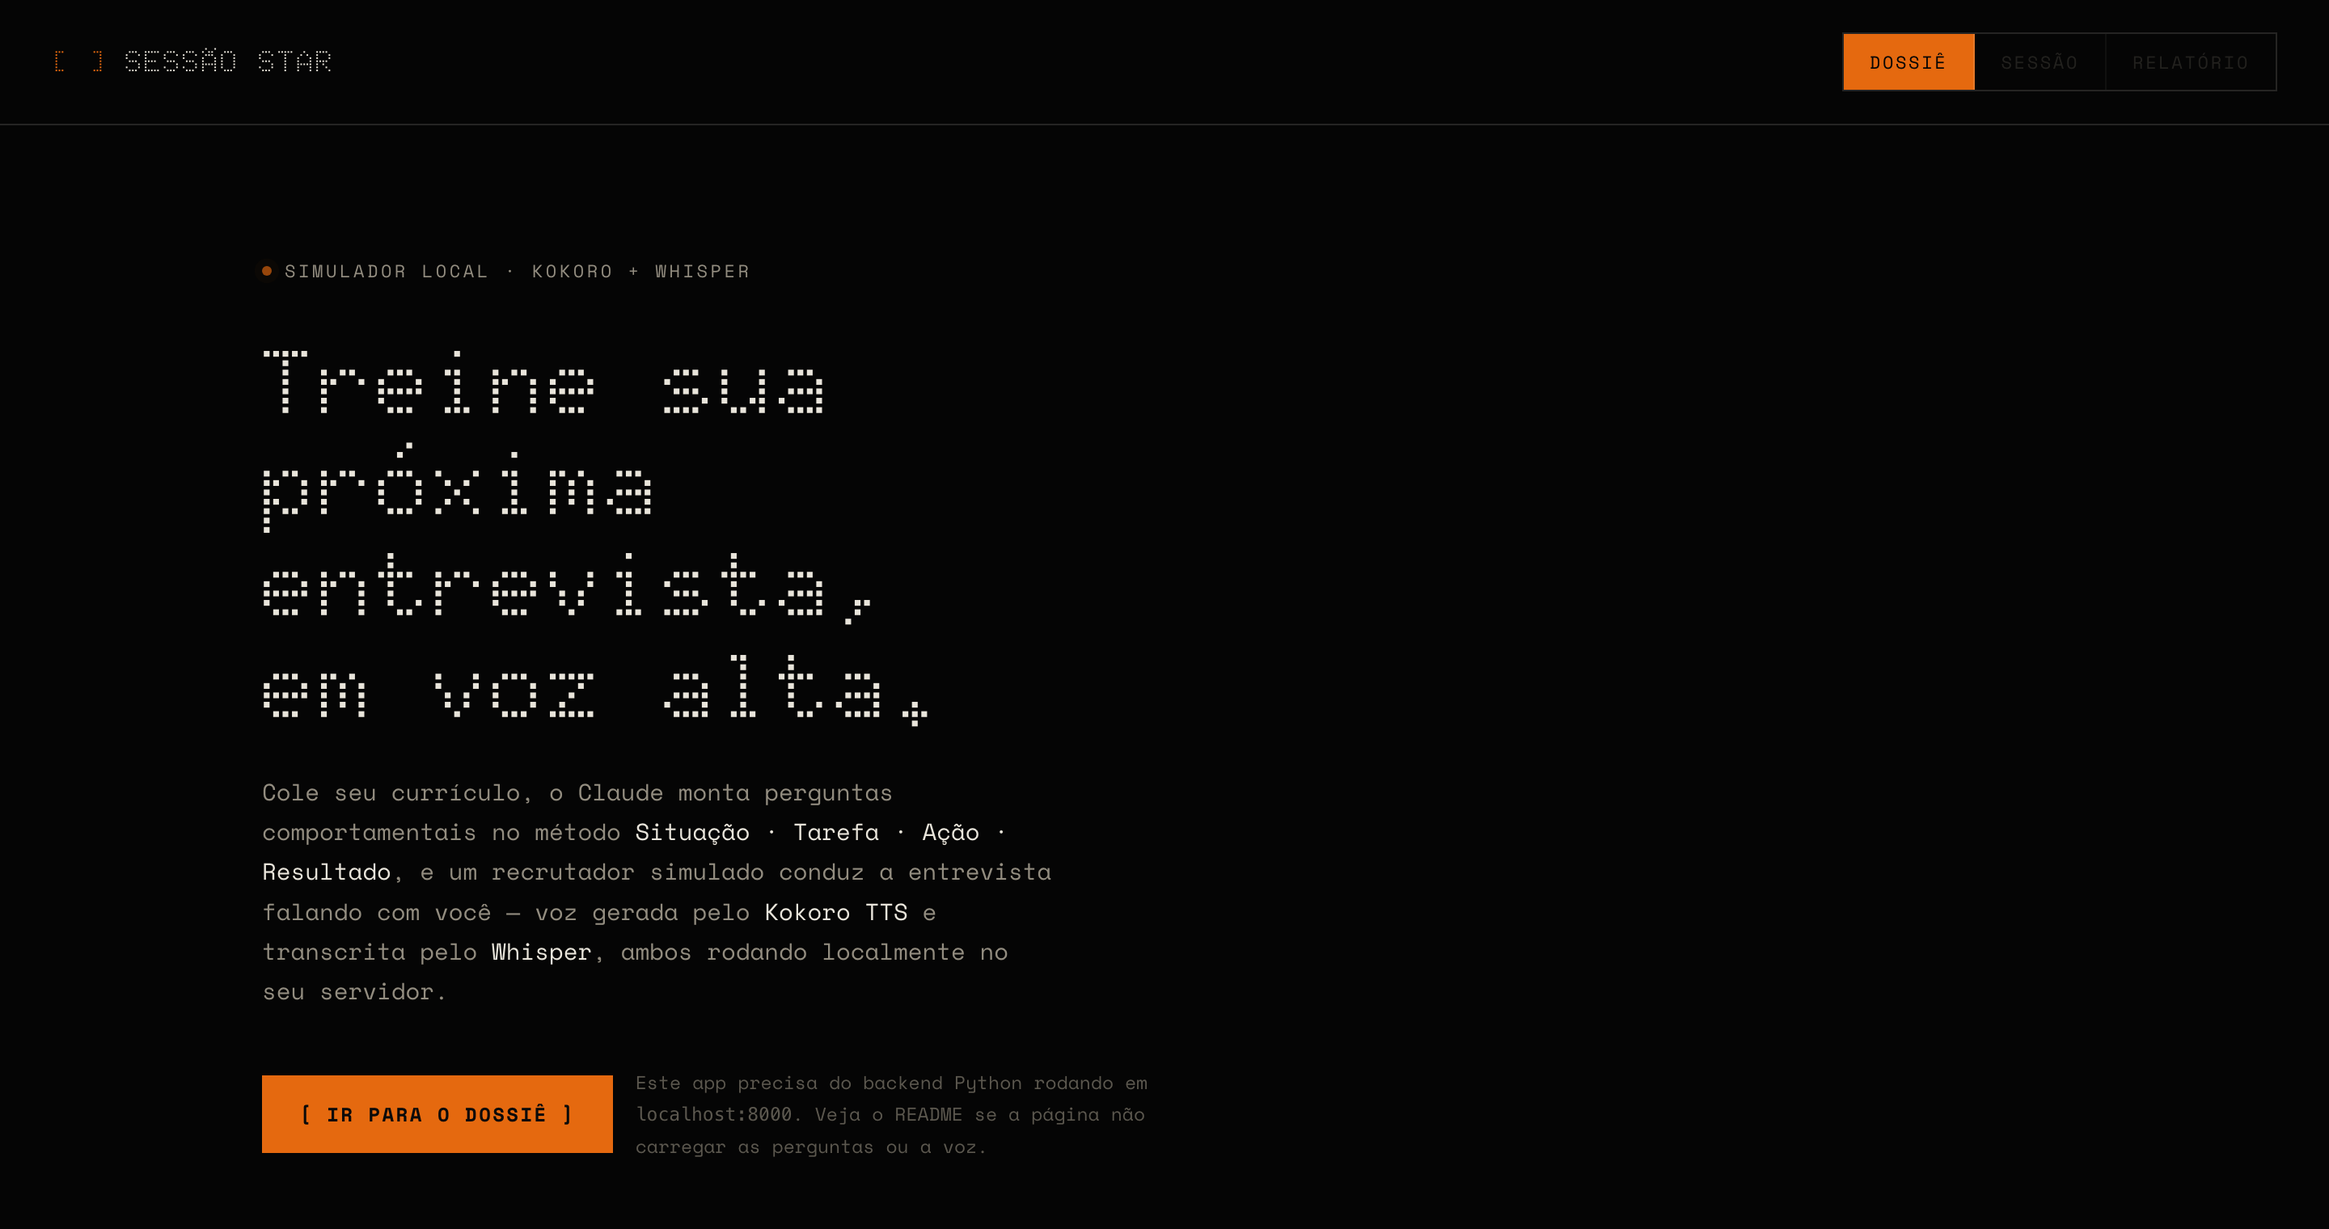
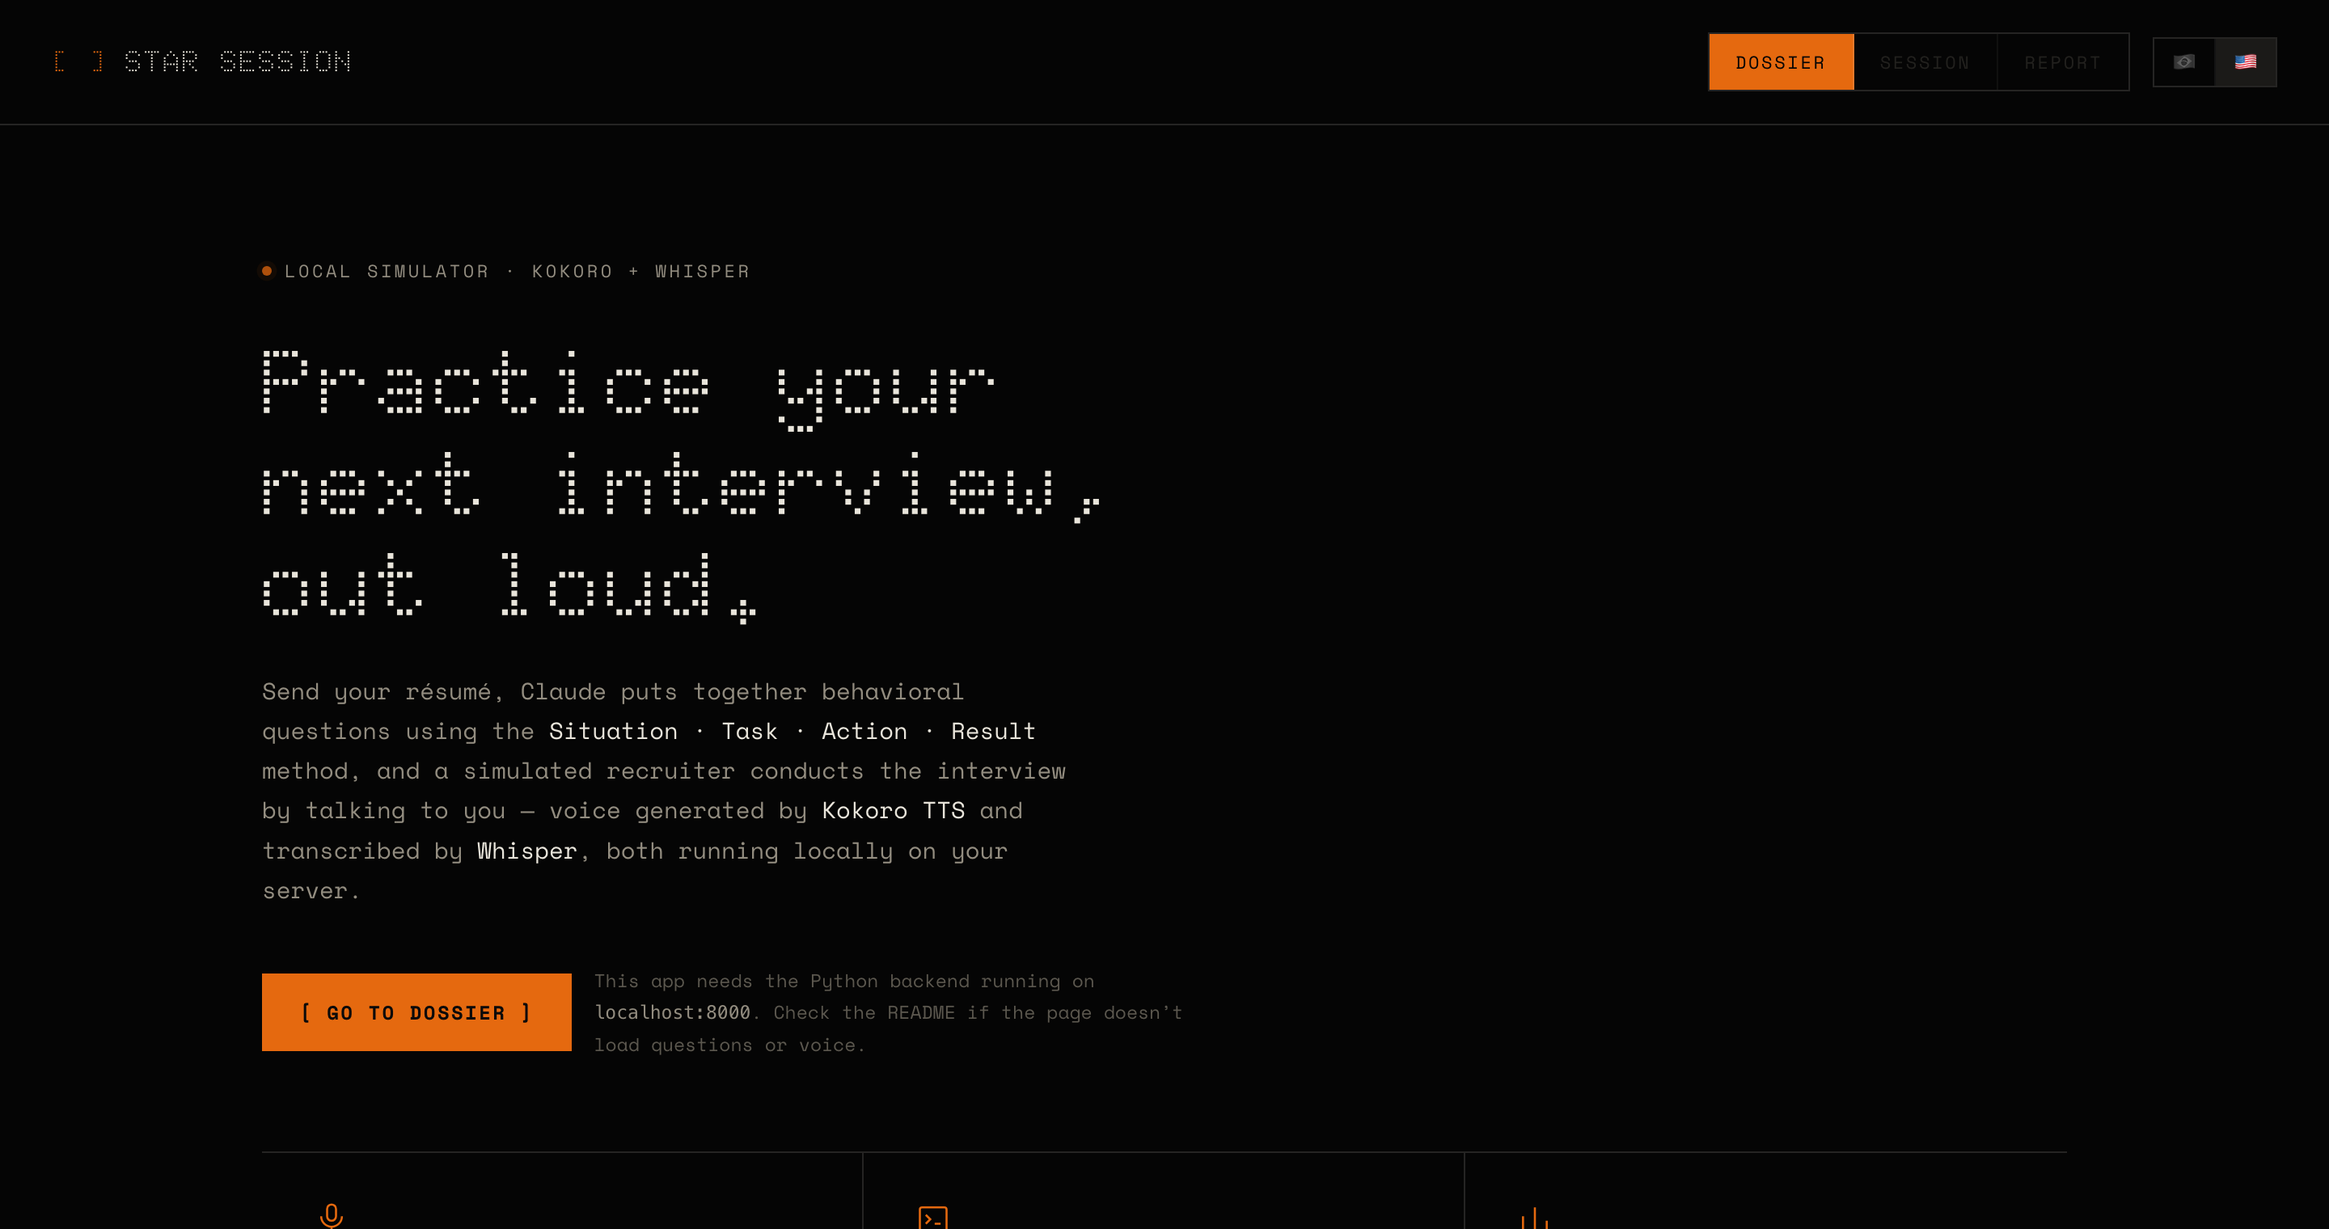
docs: translate README to English and refresh the hero screenshot
README is now 100% English, matching the app's own English UI. Also adds
?lang=en/pt URL query support in the frontend (used to capture this
screenshot deterministically, and generally useful for deep-linking a
specific language).

diff --git a/frontend/index.html b/frontend/index.html
@@ -601,7 +601,11 @@
 
   var LANG_KEY = "sessao-star-lang";
   var currentLang = (function(){
-    try { return localStorage.getItem(LANG_KEY) || "pt"; } catch (e) { return "pt"; }
+    try {
+      var fromUrl = new URLSearchParams(location.search).get("lang");
+      if (fromUrl === "pt" || fromUrl === "en") return fromUrl;
+      return localStorage.getItem(LANG_KEY) || "pt";
+    } catch (e) { return "pt"; }
   })();
 
   function t(key, vars){

diff --git a/README.md b/README.md
@@ -1,62 +1,62 @@
-# Sessão STAR
+# STAR Session
 
-![Sessão STAR — tela inicial](docs/screenshot.png)
+![STAR Session — home screen](docs/screenshot.png)
 
-## Por que isso existe
+## Why this exists
 
-Todo mundo que já passou por um processo seletivo ouviu o conselho: "treine suas respostas pelo método STAR". O problema nunca foi saber o que é STAR — Situação, Tarefa, Ação, Resultado. O problema é treinar isso *em voz alta*, contra uma pergunta que realmente tem a ver com o seu currículo e com a vaga específica que você está disputando, sem precisar convencer um amigo a bancar o recrutador de novo, ou pagar por um coach só pra ouvir você falar por vinte minutos.
+Everyone who has ever gone through a hiring process has heard the advice: "practice your answers using the STAR method." The problem was never understanding what STAR means — Situation, Task, Action, Result. The problem is practicing it *out loud*, against a question that actually relates to your résumé and the specific job you're applying for, without having to talk a friend into playing recruiter again, or paying a coach just to listen to you talk for twenty minutes.
 
-As alternativas de sempre também esbarram em outro problema: bancos de perguntas genéricas não sabem que você liderou um time de quatro pessoas na Norteluz Logística, e ferramentas de voz por IA de verdade normalmente significam mandar seu currículo e sua voz pra alguma API paga na nuvem, sessão após sessão.
+The usual alternatives run into another problem too: generic question banks don't know you led a team of four people at Norteluz Logistics, and real AI voice tools usually mean sending your résumé and your voice to some paid cloud API, session after session.
 
-A Sessão STAR nasceu pra resolver as duas coisas ao mesmo tempo: perguntas que cruzam o *seu* currículo com a JD *dessa* vaga, e uma entrevista falada de verdade — Kokoro TTS fazendo a voz do recrutador, Whisper transcrevendo sua resposta — rodando inteiramente no seu computador, sem custo por minuto e sem sua voz saindo da máquina.
+STAR Session was built to solve both at once: questions that cross-reference *your* résumé with *this* job's JD, and a real spoken interview — Kokoro TTS voicing the recruiter, Whisper transcribing your answer — running entirely on your own computer, with no per-minute cost and no voice data leaving the machine.
 
-## O que ela faz
+## What it does
 
-0. Você escolhe o idioma pela bandeira no topo (🇧🇷 português ou 🇺🇸 inglês) — currículo, vaga, perguntas, voz e relatório seguem essa escolha do início ao fim.
-1. Você envia o currículo (PDF, DOCX, TXT ou colado direto) e cola a descrição da vaga (JD).
-2. O Claude cruza as duas fontes e monta 6 perguntas comportamentais no método STAR — inclusive perguntas que sondam de propósito um requisito da vaga que seu currículo ainda não comprova.
-3. Antes de valer alguma coisa, uma rodada de treino com um tutor explica o método rapidinho e dá feedback sobre uma resposta de aquecimento, sem contar pra nota final.
-4. A entrevista de verdade começa: um recrutador simulado fala cada pergunta em voz alta, você responde pelo microfone, e a transcrição aparece na tela — editável, caso o Whisper entenda alguma palavra errada.
-5. No fim, um relatório aponta, pergunta por pergunta, onde sua resposta cobriu Situação, Tarefa, Ação e Resultado — e onde faltou.
-6. A sessão fica salva no seu histórico local. Depois de acumular respostas suficientes, um modelo treinado nos seus próprios padrões de resposta passa a mirar as próximas perguntas exatamente nos temas onde você costuma deixar a peteca cair.
+0. You pick the language from the flag at the top (🇧🇷 Portuguese or 🇺🇸 English) — résumé, job, questions, voice, and report all follow that choice end to end.
+1. You upload your résumé (PDF, DOCX, TXT, or pasted directly) and paste the job description (JD).
+2. Claude cross-references both and puts together 6 behavioral questions using the STAR method — including questions that deliberately probe a job requirement your résumé doesn't yet prove.
+3. Before anything counts, a practice round with a tutor briefly explains the method and gives feedback on a warm-up answer, none of which affects the final score.
+4. The real interview starts: a simulated recruiter speaks each question out loud, you answer through the microphone, and the transcript appears on screen — editable, in case Whisper mishears a word.
+5. At the end, a report points out, question by question, where your answer covered Situation, Task, Action, and Result — and where it fell short.
+6. The session is saved to your local history. Once enough answers pile up, a model trained on your own response patterns starts aiming future questions exactly at the themes where you tend to drop the ball.
 
-## Como funciona por baixo
+## How it works under the hood
 
 ```
-navegador  <-- HTML/CSS/JS puro, sem build step
+browser  <-- plain HTML/CSS/JS, no build step
     |
     | fetch()
     v
 FastAPI (backend/main.py)
     |-- /api/extract-resume  -> pypdf / python-docx
-    |-- /api/questions       -> Claude API (fallback: heurística local)
-    |-- /api/tts             -> Kokoro TTS   (lock: 1 chamada por vez)
-    |-- /api/stt             -> Whisper      (lock: 1 chamada por vez)
-    |-- /api/tutor-feedback  -> Claude API (fallback: heurística local)
-    |-- /api/report          -> Claude API (fallback: heurística local)
+    |-- /api/questions       -> Claude API (fallback: local heuristic)
+    |-- /api/tts             -> Kokoro TTS   (lock: 1 call at a time)
+    |-- /api/stt             -> Whisper      (lock: 1 call at a time)
+    |-- /api/tutor-feedback  -> Claude API (fallback: local heuristic)
+    |-- /api/report          -> Claude API (fallback: local heuristic)
     |-- /api/session/save    -> SQLite (backend/db.py)
-    |-- /api/insights        -> modelo preditivo (backend/ml.py)
+    |-- /api/insights        -> predictive model (backend/ml.py)
 ```
 
-Tudo passa pelo backend, inclusive a geração de voz e a transcrição — não porque o navegador não saiba gravar áudio, mas porque o Kokoro e o Whisper são modelos Python de verdade, com pesos que passam de 100 MB, e não existe versão deles rodando puramente em JavaScript no seu navegador. A chave da Claude API segue a mesma lógica de sempre: nunca sai do servidor.
+Everything goes through the backend, including voice generation and transcription — not because the browser can't record audio, but because Kokoro and Whisper are real Python models with weights well over 100 MB, and there's no version of them running purely in browser JavaScript. The Claude API key follows the same logic as always: it never leaves the server.
 
-**Histórico e modelo preditivo.** Cada sessão finalizada — currículo, JD, perguntas, respostas, relatório — é salva em SQLite (`backend/db.py`). Uma lista de palavras-chave decide, resposta por resposta, quais dos quatro elementos do STAR parecem cobertos: é o "professor" que rotula os dados. Com menos de 20 respostas reais no histórico, é só essa heurística que fala. A partir da vigésima, `ml.py` treina um classificador de texto (TF-IDF + regressão logística, um por elemento do STAR) sobre tudo que já foi respondido, e passa a usar esse modelo em vez da lista fixa — capturando um pouco do jeito como *você* escreve, não só palavras isoladas. Ele reaprende a cada sessão salva, e o tema onde sua cobertura histórica é mais baixa entra direto no prompt da próxima geração de perguntas.
+**History and predictive model.** Every finished session — résumé, JD, questions, answers, report — is saved to SQLite (`backend/db.py`). A keyword list decides, answer by answer, which of the four STAR elements seem covered: it's the "teacher" that labels the data. With fewer than 20 real answers in the history, that heuristic is the only voice that speaks. From the twentieth answer on, `ml.py` trains a text classifier (TF-IDF + logistic regression, one per STAR element) over everything answered so far, and starts using that model instead of the fixed keyword list — picking up a bit of how *you* actually write, not just isolated words. It retrains on every saved session, and the theme where your historical coverage is lowest goes straight into the prompt for the next round of question generation.
 
-**Limitação honesta:** é um classificador simples, treinado só com o que você mesmo pratica nessa máquina — ele não avalia se sua resposta é *boa*, só se ela parece cobrir estruturalmente os quatro elementos do método, e precisa de dezenas de respostas antes de dizer algo que a heurística de palavras-chave já não diria. E como o Kokoro e o Whisper não são seguros para chamadas concorrentes, o backend serializa as duas com um lock — ótimo para um candidato treinando sozinho, um gargalo se um dia isso precisasse atender várias pessoas ao mesmo tempo.
+**Honest limitation:** it's a simple classifier, trained only on what you practice on this machine — it doesn't judge whether your answer is *good*, only whether it structurally seems to cover the four elements of the method, and it needs dozens of answers before it says anything the keyword heuristic wouldn't already say. And since Kokoro and Whisper aren't safe for concurrent calls, the backend serializes both behind a lock — fine for one candidate practicing alone, a bottleneck if this ever had to serve several people at once.
 
-## Requisitos do sistema
+## System requirements
 
 - Python 3.10+
-- [espeak-ng](https://github.com/espeak-ng/espeak-ng) — usado pelo Kokoro para fonemizar o português:
+- [espeak-ng](https://github.com/espeak-ng/espeak-ng) — used by Kokoro to phonemize both Portuguese and English:
   ```bash
   brew install espeak-ng
   ```
-- ffmpeg — usado para decodificar o áudio gravado no navegador antes de mandar ao Whisper:
+- ffmpeg — used to decode the audio recorded in the browser before sending it to Whisper:
   ```bash
   brew install ffmpeg
   ```
 
-## Instalação
+## Installation
 
 ```bash
 cd backend
@@ -66,11 +66,11 @@ pip install -r requirements.txt
 cp .env.example .env
 ```
 
-Edite `.env` e adicione sua `ANTHROPIC_API_KEY` se quiser perguntas STAR personalizadas e
-relatório final gerados pelo Claude. Sem a chave, o app funciona normalmente, mas usa perguntas
-e relatório heurísticos (mais genéricos).
+Edit `.env` and add your `ANTHROPIC_API_KEY` if you want personalized STAR questions and a
+final report generated by Claude. Without the key, the app still works, but falls back to
+heuristic (more generic) questions and reports.
 
-## Rodando
+## Running it
 
 ```bash
 cd backend
@@ -78,54 +78,54 @@ source .venv/bin/activate
 uvicorn main:app --reload
 ```
 
-Abra http://localhost:8000 no navegador (Chrome ou Edge recomendados, para permissão de
-microfone mais confiável).
+Open http://localhost:8000 in your browser (Chrome or Edge recommended, for more reliable
+microphone permission).
 
-## Primeira execução
+## First run
 
-- O **Kokoro** baixa os pesos do modelo (~centenas de MB) na primeira chamada a `/api/tts`.
-- O **Whisper** (`faster-whisper`, modelo `small` por padrão) baixa os pesos na primeira chamada
-  a `/api/stt`.
-- Ambos ficam em cache local depois disso; as próximas sessões carregam na hora.
+- **Kokoro** downloads its model weights (a few hundred MB) on the first call to `/api/tts`.
+- **Whisper** (`faster-whisper`, `small` model by default) downloads its weights on the first
+  call to `/api/stt`.
+- Both are cached locally after that; later sessions load instantly.
 
-## Variáveis de ambiente (`backend/.env`)
+## Environment variables (`backend/.env`)
 
-| Variável | Padrão | Descrição |
+| Variable | Default | Description |
 |---|---|---|
-| `ANTHROPIC_API_KEY` | — | Chave da API da Anthropic. Sem ela, perguntas e relatório usam heurística local. |
-| `ANTHROPIC_MODEL` | `claude-haiku-4-5` | Modelo Claude usado para gerar perguntas e relatório. |
-| `WHISPER_MODEL` | `small` | Tamanho do modelo Whisper (`tiny`, `base`, `small`, `medium`, `large-v3`). Modelos maiores são mais precisos e mais lentos. |
-| `KOKORO_VOICE` | `pm_alex` | Voz do Kokoro para o recrutador em português. Vozes pt-BR: `pf_dora` (feminina), `pm_alex`, `pm_santa` (masculinas). |
-| `KOKORO_VOICE_EN` | `af_heart` | Voz do Kokoro para o recrutador em inglês (quando 🇺🇸 está selecionado). Vozes em inglês: `af_heart`, `af_bella` (femininas), `am_adam`, `am_michael` (masculinas). |
+| `ANTHROPIC_API_KEY` | — | Anthropic API key. Without it, questions and the report fall back to a local heuristic. |
+| `ANTHROPIC_MODEL` | `claude-haiku-4-5` | Claude model used to generate questions and the report. |
+| `WHISPER_MODEL` | `small` | Whisper model size (`tiny`, `base`, `small`, `medium`, `large-v3`). Larger models are more accurate and slower. |
+| `KOKORO_VOICE` | `pm_alex` | Kokoro voice for the recruiter in Portuguese. pt-BR voices: `pf_dora` (female), `pm_alex`, `pm_santa` (male). |
+| `KOKORO_VOICE_EN` | `af_heart` | Kokoro voice for the recruiter in English (when 🇺🇸 is selected). English voices: `af_heart`, `af_bella` (female), `am_adam`, `am_michael` (male). |
 
-## Estrutura do projeto
+## Project structure
 
 ```
 backend/
-  main.py            FastAPI: todos os endpoints e o serviço do frontend estático.
-  db.py              Persistência em SQLite (backend/data/sessao_star.db, fora do git).
-  ml.py              Modelo preditivo (scikit-learn) de cobertura STAR.
+  main.py            FastAPI: every endpoint, plus serving the static frontend.
+  db.py              SQLite persistence (backend/data/sessao_star.db, outside git).
+  ml.py              Predictive model (scikit-learn) for STAR coverage.
   requirements.txt
   .env.example
 frontend/
-  index.html         Interface única (HTML/CSS/JS puro, sem build step).
+  index.html         Single-page UI (plain HTML/CSS/JS, no build step).
 docs/
-  screenshot.png     Captura usada neste README.
+  screenshot.png     Screenshot used in this README.
 ```
 
-O frontend grava a resposta com `MediaRecorder`, envia o áudio para `/api/stt` e recebe o texto
-transcrito (não é streaming ao vivo — grava, para, transcreve). A pergunta é sintetizada uma vez
-por `/api/tts` e o áudio fica em cache no navegador durante a sessão, então "ouvir de novo" não
-gera uma nova chamada ao Kokoro.
+The frontend records the answer with `MediaRecorder`, sends the audio to `/api/stt`, and gets
+back the transcribed text (not live streaming — it records, stops, then transcribes). The
+question is synthesized once through `/api/tts` and the audio is cached in the browser for the
+session, so "play again" doesn't trigger a new call to Kokoro.
 
-**Privacidade:** `backend/data/` (banco SQLite + modelo treinado) e `backend/.env` (sua chave de
-API) ficam fora do git — o primeiro contém trechos de currículo e as respostas faladas nas suas
-entrevistas de treino.
+**Privacy:** `backend/data/` (SQLite database + trained model) and `backend/.env` (your API key)
+stay out of git — the former holds résumé excerpts and the answers you speak during your practice
+interviews.
 
-## Problemas comuns
+## Common issues
 
-- **Erro ao gerar voz (Kokoro)**: confirme que `espeak-ng` está instalado (`espeak-ng --version`).
-- **Erro ao transcrever (Whisper)**: confirme que `ffmpeg` está instalado (`ffmpeg -version`).
-- **Microfone não pede permissão**: acesse via `http://localhost:8000` (não `127.0.0.1` misturado
-  com outro host) — navegadores exigem contexto seguro (localhost conta como seguro) para o
-  `getUserMedia`.
+- **Voice generation error (Kokoro)**: make sure `espeak-ng` is installed (`espeak-ng --version`).
+- **Transcription error (Whisper)**: make sure `ffmpeg` is installed (`ffmpeg -version`).
+- **Microphone never asks for permission**: access it via `http://localhost:8000` (not a mix of
+  `127.0.0.1` and another host) — browsers require a secure context (localhost counts as secure)
+  for `getUserMedia`.
